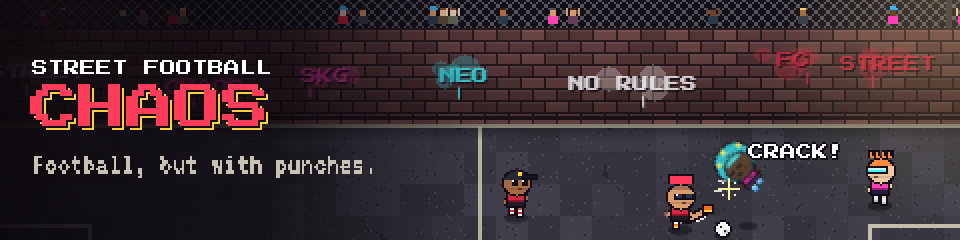
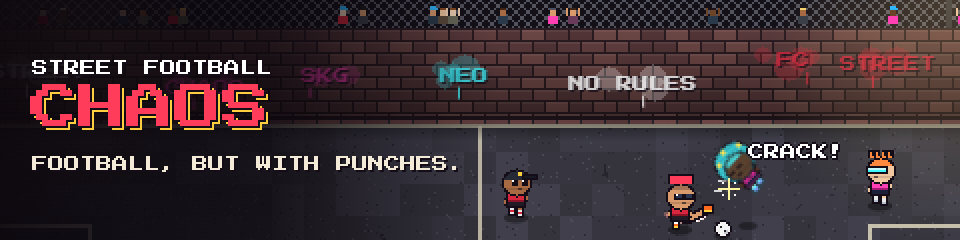
feat: Improve itch page

Changed region(s): [[0.0312, 0.6417, 0.4688, 0.7292]]

diff --git a/tools/itch-page/description.html b/tools/itch-page/description.html
@@ -7,10 +7,11 @@
        Copy đoạn giữa itch:start / itch:end (chỉ thẻ thường, không style riêng) rồi dán vào.
        Ảnh: tải logo.png + h-*.png (out/) lên itch trước, thay src="out/..." bằng link ảnh itch trả về.
        mock.html nhúng file này qua iframe. -->
+  <link rel="stylesheet" href="https://fonts.googleapis.com/css2?family=Rubik:wght@400;700&display=swap" />
   <style>
     @font-face { font-family: 'VT323'; src: url(../../assets/fonts/VT323-latin.woff2) format('woff2'); }
     :root { --page: #140c16; --text: #f3ead7; --link: #ffe14f; --muted: #9aa3b5; }
-    body { margin: 0; padding: 0 2px 8px; background: var(--page); color: var(--text); font: 15px/1.55 "Lato", system-ui, sans-serif; }
+    body { margin: 0; padding: 0 2px 8px; background: var(--page); color: var(--text); font: 15px/1.55 "Rubik", system-ui, sans-serif; }
     a { color: var(--link); }
     img { image-rendering: pixelated; display: block; max-width: 100%; }
     body > img:first-of-type { margin: 4px 0 14px; }
@@ -22,27 +23,26 @@
     td { padding: 3px 14px 3px 0; vertical-align: top; }
     td:first-child { color: var(--link); white-space: nowrap; font-family: 'VT323', monospace; font-size: 18px; }
     .lead { font-size: 17px; }
-    .credit { color: var(--muted); font-size: 13px; }
   </style>
 </head>
 <body>
 <!-- ===== itch:start — copy from here (img src: replace out/... with the itch.io image URLs) ===== -->
   <img src="out/logo.png" alt="Street Football Chaos" width="336">
-  <p class="lead"><b>Football, but the tackle button is a punch.</b> Punch the ball carrier, send defenders flying into the wall, and build a ridiculous playstyle from mid-match upgrades.</p>
+  <p class="lead"><b>2v2 street football with no referee.</b> To win the ball back, you punch whoever has it.</p>
 
   <img class="h" width="600" src="out/h-features.png" alt="Features">
   <ul>
-    <li><b>No tackles, only fists.</b> A quick punch to knock the ball loose, or a charged dropkick that launches people across the pitch.</li>
-    <li><b>53 Core upgrades.</b> Pick a card after goals and stack an archetype: runner, playmaker, striker, brawler, launcher, trickster, iron, chaos.</li>
-    <li><b>7 ultimates</b> with anime cut-ins: Meteor Shot, Hundred Fists, Clone Army, Titan…</li>
+    <li><b>Your tackle is a punch.</b> Punch the ball carrier to knock the ball loose, or dropkick them into the wall.</li>
+    <li><b>No referee.</b> No fouls, no cards, no whistle. Every loose ball turns into a brawl.</li>
+    <li><b>Power up your team after every goal.</b> Pick one of three Cores, upgrades that last the rest of the match: faster sprints, harder shots, heavier punches. 53 Cores in all, 7 of them ultimates.</li>
     <li><b>Main Path campaign:</b> climb 10 areas, from a village pitch to the World Stage.</li>
-    <li><b>Dress your player:</b> 80 costume pieces (hats, faces, shoes, trail effects) from gacha boxes.</li>
-    <li><b>Train your stats</b> with drill cards every level.</li>
+    <li><b>Dress your player:</b> 80 costume pieces (hats, faces, shoes, trail effects), unlocked with gold you earn in matches.</li>
+    <li><b>Level up your player:</b> every level, pick one of three stat boosts: pace, shooting, passing, dribbling, fighting or goalkeeping.</li>
     <li><b>Online 1v1</b> with a room code.</li>
   </ul>
 
   <img class="h" width="600" src="out/h-cores.png" alt="Core upgrades">
-  <p>After every goal, both teams pick one of three Cores. Stack two, three or four of the same archetype to unlock bonuses. Hold two of one style and that style's ultimate can show up in your picks. Every match plays out differently.</p>
+  <p>After every goal, both teams pick one of three Cores. Stack two, three or four of the same archetype to unlock bonuses. Hold two of one style and that style's ultimate can show up in your picks.</p>
 
   <img class="h" width="600" src="out/h-controls.png" alt="Controls">
   <table>
@@ -62,10 +62,6 @@
   <img class="h" width="600" src="out/h-online.png" alt="Play online">
   <p>Create a room, send the 7-letter code to a friend, and play 1v1.</p>
 
-  <img class="h" width="600" src="out/h-download.png" alt="Browser or download">
-  <p>The browser version saves your progress in this browser. Clearing site data or switching browsers starts you over. The Windows download keeps saves in a file on your PC.</p>
-
-  <p class="credit">Made by Team41. Fonts: Press Start 2P and VT323 (SIL Open Font License).</p>
 <!-- ===== itch:end ===== -->
 
   <script>

diff --git a/tools/itch-page/mock.html b/tools/itch-page/mock.html
@@ -6,6 +6,7 @@
   <title>itch.io page mock</title>
   <!-- Mock cục bộ của trang game itch.io (bố cục gần giống, không phải bản sao): thử màu + ảnh trước khi nhập vào Edit theme.
        Ảnh lấy từ out/ (chạy generate.html trước). Bảng "Theme" bên phải đổi màu trực tiếp. -->
+  <link rel="stylesheet" href="https://fonts.googleapis.com/css2?family=Rubik:wght@400;700&display=swap" />
   <style>
     @font-face { font-family: 'Press Start 2P'; src: url(../../assets/fonts/PressStart2P-latin.woff2) format('woff2'); }
     @font-face { font-family: 'VT323'; src: url(../../assets/fonts/VT323-latin.woff2) format('woff2'); }
@@ -21,7 +22,7 @@
       --muted: #9aa3b5;
     }
     * { box-sizing: border-box; }
-    body { margin: 0; background: var(--bg) url(out/bg-tile.png) repeat; color: var(--text); font: 15px/1.55 "Lato", system-ui, sans-serif; }
+    body { margin: 0; background: var(--bg) url(out/bg-tile.png) repeat; color: var(--text); font: 15px/1.55 "Rubik", system-ui, sans-serif; }
     a { color: var(--link); }
     img { image-rendering: pixelated; display: block; max-width: 100%; }
 
@@ -73,7 +74,7 @@
     <span class="x" onclick="this.parentNode.remove()">✕</span>
     <h4>Theme (Edit theme on itch)</h4>
     <div id="pickers"></div>
-    <p>Background image: <code>bg-tile.png</code>, repeat.<br>Banner: <code>banner.png</code>.<br>Field names on itch may differ a little.</p>
+    <p>Fonts: text <code>Rubik</code> (not a pixel font, hard to read at body size).<br>Background image: <code>bg-tile.png</code>, repeat.<br>Banner: <code>banner.png</code>.<br>Field names on itch may differ a little.</p>
   </div>
 
   <div class="page">

diff --git a/tools/itch-page/generate.js b/tools/itch-page/generate.js
@@ -114,7 +114,7 @@ function run() {
     x.fillStyle = grad; x.fillRect(0, 0, 250, 120);
     text(x, 'STREET FOOTBALL', 16, 30, 8, '#ffffff', { shadows: [[1, 1, INK]] });
     text(x, 'CHAOS', 15, 42, 24, RED, { shadows: [[1, 1, INK], [2, 2, GOLD]] });
-    text(x, 'Football, but with punches.', 16, 74, 16, '#c9c2b4', { font: VT });
+    text(x, 'FOOTBALL, BUT WITH PUNCHES.', 16, 78, 8, PAPER, { shadows: [[1, 1, INK]] });
     save('banner.png', upscale(b, 2));
   }
 
@@ -171,7 +171,7 @@ function run() {
   }
 
   /* ---------- tiêu đề mục (ảnh, vì phần mô tả itch không dùng được font riêng) ---------- */
-  const HEADERS = { features: 'FEATURES', controls: 'CONTROLS', cores: 'CORE UPGRADES', online: 'PLAY ONLINE', download: 'BROWSER OR DOWNLOAD' };
+  const HEADERS = { features: 'FEATURES', controls: 'CONTROLS', cores: 'CORE UPGRADES', online: 'PLAY ONLINE' };
   for (const [id, label] of Object.entries(HEADERS)) {
     const b = canvas(300, 16), x = b.getContext('2d');
     x.fillStyle = INK; x.fillRect(0, 4, 7, 7);
